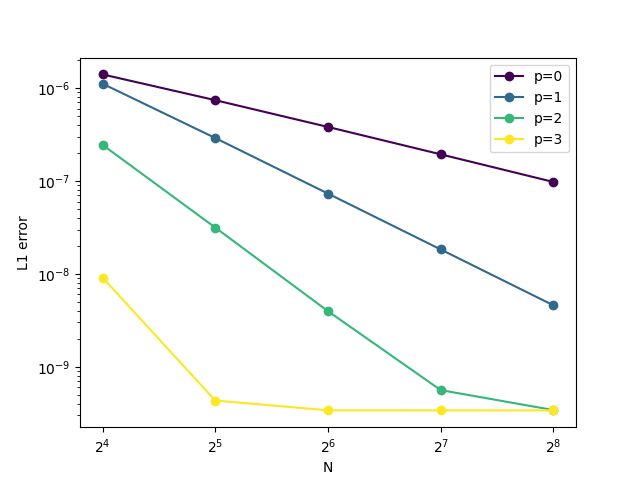
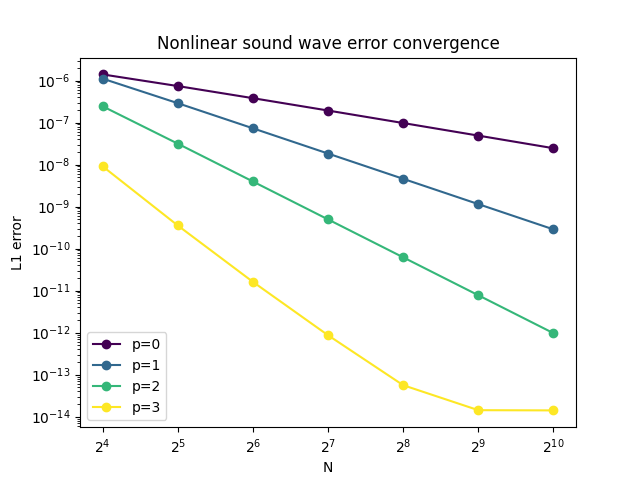
fix: nonlinear sound wave test

diff --git a/benchmarks/nonlinear_sound_wave_error_convergence/__main__.py b/benchmarks/nonlinear_sound_wave_error_convergence/__main__.py
@@ -13,30 +13,28 @@ gamma = 1.4
 rho0 = 1
 cs0 = 1
 P0 = 1 / gamma
-L = 1
-k = 2 * np.pi / L
-omega = cs0 * k
 A = 1e-5
+T = 1.0
 
 
 def nonlinear_sound_wave(array_slicer, x, y, z, t):
     _slc = array_slicer
 
     def vp(x, t):
-        return A * np.sin(k * x - omega * t) + A**2 * ((gamma + 1) / 4) * (
-            omega * t / cs0
-        ) * np.cos(2 * (k * x - omega * t))
+        return A * np.sin(2 * np.pi * (x - t)) - A**2 * (
+            gamma + 1
+        ) / 4 * 2 * np.pi * t * np.sin(4 * np.pi * (x - t))
 
     out = np.zeros((5, *x.shape))
-    out[_slc("rho")] = rho0 + rho0 * vp(x, 0) / cs0  # only valid for t=0
+    out[_slc("rho")] = rho0 + rho0 * vp(x, 0)  # only valid for t=0
     out[_slc("vx")] = vp(x, t)
-    out[_slc("P")] = P0 + gamma * P0 * vp(x, 0) / cs0  # only valid for t=0
+    out[_slc("P")] = P0 + gamma * P0 * vp(x, 0)  # only valid for t=0
     return out
 
 
 # problem inputs
 OUTPUT_NAME = "benchmarks/nonlinear_sound_wave_error_convergence/" + "plot.png"
-N_LIST = [16, 32, 64, 128, 256]
+N_LIST = [16, 32, 64, 128, 256, 512, 1024]
 P_LIST = [0, 1, 2, 3]
 OTHER_INPUTS = dict(
     gamma=gamma,
@@ -60,9 +58,9 @@ for N, p in product(N_LIST, P_LIST):
 
     # run solver
     solver = EulerSolver(
-        ic=partial(nonlinear_sound_wave, t=0), xlim=(0, L), nx=N, p=p, **OTHER_INPUTS
+        ic=partial(nonlinear_sound_wave, t=0), nx=N, p=p, **OTHER_INPUTS
     )
-    solver.run(L / cs0)
+    solver.run(T)
 
     # measure error
     _slc = solver.array_slicer
@@ -72,9 +70,7 @@ for N, p in product(N_LIST, P_LIST):
         vx_numerical = solver.primitive_cell_centers(solver.snapshots[-1]["u"])[
             _slc("vx")
         ]
-    vx_exact = nonlinear_sound_wave(_slc, solver.X, solver.Y, solver.Z, L / cs0)[
-        _slc("vx")
-    ]
+    vx_exact = nonlinear_sound_wave(_slc, solver.X, solver.Y, solver.Z, T)[_slc("vx")]
     error = l1_norm(vx_numerical - vx_exact)
     data.append(dict(N=N, p=p, error=error))
 df = pd.DataFrame(data)
@@ -93,6 +89,7 @@ for p in P_LIST:
         linestyle="-",
         color=cmap(p / max(P_LIST)),
     )
+ax.set_title("Nonlinear sound wave error convergence")
 ax.set_xscale("log", base=2)
 ax.set_yscale("log")
 ax.set_xlabel("N")

diff --git a/superfv/finite_volume_solver.py b/superfv/finite_volume_solver.py
@@ -627,11 +627,12 @@ class FiniteVolumeSolver(ExplicitODESolver, ABC):
         )
 
         # this is used to apply ghost cells to alpha in the smooth extrema detector
+        _periodic = ("periodic", "periodic")
         self.bc_for_smooth_extrema_detection = BoundaryConditions(
             self.array_slicer,
-            "periodic" if bcx == "periodic" else "ones",
-            "periodic" if bcy == "periodic" else "ones",
-            "periodic" if bcz == "periodic" else "ones",
+            "periodic" if self.bc.bcx == _periodic else "ones",
+            "periodic" if self.bc.bcy == _periodic else "ones",
+            "periodic" if self.bc.bcz == _periodic else "ones",
             x_slab=self.slab_meshes["x"],
             y_slab=self.slab_meshes["y"],
             z_slab=self.slab_meshes["z"],
@@ -640,9 +641,9 @@ class FiniteVolumeSolver(ExplicitODESolver, ABC):
         # this is used to apply ghost cells to the troubled cell mask in MOOD
         self.bc_for_troubled_cell_mask = BoundaryConditions(
             self.array_slicer,
-            "periodic" if bcx == "periodic" else "free",
-            "periodic" if bcy == "periodic" else "free",
-            "periodic" if bcz == "periodic" else "free",
+            "periodic" if self.bc.bcx == _periodic else "free",
+            "periodic" if self.bc.bcy == _periodic else "free",
+            "periodic" if self.bc.bcz == _periodic else "free",
             x_slab=self.slab_meshes["x"],
             y_slab=self.slab_meshes["y"],
             z_slab=self.slab_meshes["z"],

diff --git a/benchmarks/advection_error_convergence/AdvectionSolver/__main__.py b/benchmarks/advection_error_convergence/AdvectionSolver/__main__.py
@@ -7,12 +7,12 @@ import pandas as pd
 
 import superfv.initial_conditions as initial_conditions
 from superfv import AdvectionSolver
-from superfv.tools.array_management import linf_norm
+from superfv.tools.array_management import l1_norm
 
 # problem inputs
 OUTPUT_NAME = "benchmarks/advection_error_convergence/AdvectionSolver/" + "plot.png"
 DIMS = "x"
-N_LIST = [16, 32, 64, 128, 256]
+N_LIST = [16, 32, 64, 128, 256, 512, 1024]
 P_LIST = [0, 1, 2, 3]
 OTHER_INPUTS = dict(
     interpolation_scheme="transverse",
@@ -47,9 +47,12 @@ for N, p in product(N_LIST, P_LIST):
 
     # measure error
     _slc = solver.array_slicer
-    rho0 = solver.snapshots(0.0)["u"][_slc("rho")]
-    rho1 = solver.snapshots(1.0)["u"][_slc("rho")]
-    data.append(dict(N=N, p=p, error=linf_norm(rho1 - rho0)))
+    rho_numerical = solver.snapshots(1.0)["wcc"][_slc("rho")]
+    rho_analytical = initial_conditions.sinus(_slc, solver.X, solver.Y, solver.Z, P=0)[
+        _slc("rho")
+    ]
+    error = l1_norm(rho_numerical - rho_analytical)
+    data.append(dict(N=N, p=p, error=error))
 df = pd.DataFrame(data)
 
 # plot error curves of p over N
@@ -69,6 +72,6 @@ for p in P_LIST:
 ax.set_xscale("log", base=2)
 ax.set_yscale("log")
 ax.set_xlabel("N")
-ax.set_ylabel("Linf error")
+ax.set_ylabel("L1 error")
 ax.legend()
 fig.savefig(OUTPUT_NAME)

diff --git a/superfv/visualization.py b/superfv/visualization.py
@@ -135,7 +135,7 @@ def plot_1d_slice(
     x: Optional[Union[float, Tuple[Optional[float], Optional[float]]]] = 0.5,
     y: Optional[Union[float, Tuple[Optional[float], Optional[float]]]] = 0.5,
     z: Optional[Union[float, Tuple[Optional[float], Optional[float]]]] = 0.5,
-    xlabel: bool = True,
+    xlabel: bool = False,
     **kwargs,
 ):
     """
@@ -154,7 +154,7 @@ def plot_1d_slice(
             y-coordinate or range. Defaults to 0.5.
         z (Optional[Union[float, Tuple[Optional[float], Optional[float]]]]):
             z-coordinate or range. Defaults to 0.5.
-        xlabel (bool): Whether to show the x-axis label. Defaults to True.
+        xlabel (bool): Whether to show the x-axis label. Defaults to False.
         **kwargs: Keyword arguments for the plot.
 
     Raises:

diff --git a/benchmarks/advection_error_convergence/EulerSolver/__main__.py b/benchmarks/advection_error_convergence/EulerSolver/__main__.py
@@ -11,7 +11,7 @@ from superfv.tools.array_management import linf_norm
 # problem inputs
 OUTPUT_NAME = "benchmarks/advection_error_convergence/EulerSolver/" + "plot.png"
 DIMS = "x"
-N_LIST = [16, 32, 64, 128, 256]
+N_LIST = [16, 32, 64, 128, 256, 512, 1024]
 P_LIST = [0, 1, 2, 3]
 OTHER_INPUTS = dict(
     interpolation_scheme="transverse",

diff --git a/superfv/advection_solver.py b/superfv/advection_solver.py
@@ -156,7 +156,7 @@ class AdvectionSolver(FiniteVolumeSolver):
             CFL=CFL,
             interpolation_scheme=interpolation_scheme,
             flux_recipe=1,
-            lazy_primitives=True,
+            lazy_primitives=False,
             riemann_solver=riemann_solver,
             MUSCL=MUSCL,
             ZS=ZS,

diff --git a/TODO.md b/TODO.md
@@ -1,9 +1,10 @@
 - [x] nonlinear sound wave test (David)
-- [ ] SED does not work for *a priori* limiting
-- [ ] clean up riemann solver primitive variable logic
-- [ ] compare sedov1d with Romain lecture *a priori* limited solver
+- [x] SED does not work for *a priori* limiting
+- [ ] compare sedov1d with Romain lecture *a priori* limited solver and analytical solution
 - [ ] fix number of assigned ghost cells for transverse flux
 - [ ] fix 2DZS + RK4
+- [ ] clean up riemann solver primitive variable logic
+- [ ] .mesh object
 - [ ] switch from f"v{dim}" style to "v" + dim style for slight performance improvement
 - [ ] expand README.md
 - [ ] coverage
